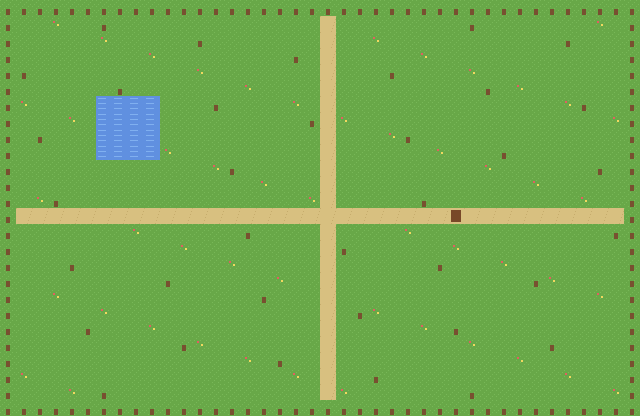
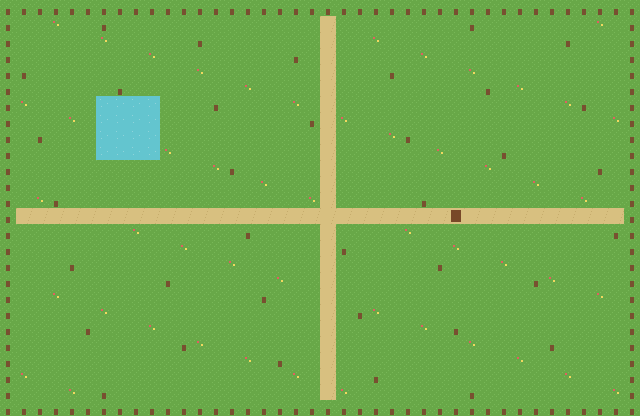
gnhf 6: Started roadmap item 6 (the licensed art swap) by replacing the demo map's procedurally-drawn WATER tile with a real 16x16 tile blitted from Kenney's CC0 Roguelike/RPG Pack spritesheet.

Changed region(s): [[0.125, 0.2188, 0.25, 0.4062]]

diff --git a/tools/gen_assets.cpp b/tools/gen_assets.cpp
@@ -12,6 +12,18 @@
 namespace {
 constexpr int T = grid::TILE; // 16
 
+// Kenney "Roguelike/RPG Pack" (CC0, see ASSET_CREDITS.md). Sheet cells are
+// 16x16 with a 1px margin, so each cell occupies a 17x17 stride.
+constexpr int SHEET_CELL = T + 1;
+constexpr int WATER_SHEET_COL = 0;
+constexpr int WATER_SHEET_ROW = 0;
+
+void blitSheetTile(Image* dst, Image* sheet, int sheetCol, int sheetRow, int ox, int oy) {
+    Rectangle src{float(sheetCol * SHEET_CELL), float(sheetRow * SHEET_CELL), float(T), float(T)};
+    Rectangle dstRect{float(ox), float(oy), float(T), float(T)};
+    ImageDraw(dst, *sheet, src, dstRect, WHITE);
+}
+
 const Color GRASS_A{104, 168, 72, 255};
 const Color GRASS_B{120, 184, 88, 255};
 const Color PATH_A{216, 192, 128, 255};
@@ -36,7 +48,7 @@ void drawGrass(Image* img, int ox, int oy) {
             if (((x + y) / 2) % 3 == 0) ImageDrawPixel(img, ox + x, oy + y, GRASS_B);
 }
 
-void drawTileLower(Image* img, int gx, int gy) {
+void drawTileLower(Image* img, Image* tileSheet, int gx, int gy) {
     const int ox = gx * T, oy = gy * T;
     switch (demomap::tileAt(gx, gy)) {
         case demomap::GRASS:
@@ -53,9 +65,7 @@ void drawTileLower(Image* img, int gx, int gy) {
                 ImageDrawPixel(img, ox + (i * 5) % T, oy + i, PATH_B);
             break;
         case demomap::WATER:
-            ImageDrawRectangle(img, ox, oy, T, T, WATER_A);
-            for (int y = 2; y < T; y += 5)
-                ImageDrawRectangle(img, ox + 2, oy + y, 8, 1, WATER_B);
+            blitSheetTile(img, tileSheet, WATER_SHEET_COL, WATER_SHEET_ROW, ox, oy);
             break;
         case demomap::TREE:
             drawGrass(img, ox, oy);
@@ -143,10 +153,12 @@ int main() {
     std::filesystem::create_directories("assets/maps");
     std::filesystem::create_directories("assets/characters");
 
+    Image tileSheet = LoadImage("assets/tiles/kenney_roguelike_sheet.png");
+
     // --- map lower layer ---
     Image lower = GenImageColor(demomap::W * T, demomap::H * T, GRASS_A);
     for (int gy = 0; gy < demomap::H; ++gy)
-        for (int gx = 0; gx < demomap::W; ++gx) drawTileLower(&lower, gx, gy);
+        for (int gx = 0; gx < demomap::W; ++gx) drawTileLower(&lower, &tileSheet, gx, gy);
     ExportImage(lower, "assets/maps/demo_lower.png");
     UnloadImage(lower);
 
@@ -156,6 +168,7 @@ int main() {
         for (int gx = 0; gx < demomap::W; ++gx) drawTileUpper(&upper, gx, gy);
     ExportImage(upper, "assets/maps/demo_upper.png");
     UnloadImage(upper);
+    UnloadImage(tileSheet);
 
     // --- hub room: plain floor/walls, no upper-layer content ---
     Image hubLower = GenImageColor(hubmap::W * T, hubmap::H * T, FLOOR_A);

diff --git a/ASSET_CREDITS.md b/ASSET_CREDITS.md
@@ -2,30 +2,44 @@
 
 ## Current assets (foundation)
 
-All art currently in `assets/` is **procedurally generated** by
+Most art in `assets/` is still **procedurally generated** by
 `tools/gen_assets.cpp` in this repo. It is original work, released under CC0
 (public domain). It is intentionally simple placeholder art in a Gen-4 palette,
 present so the engine has something to render and verify.
 
-- `assets/maps/demo_lower.png`, `demo_upper.png` - generated demo map
+- `assets/maps/demo_lower.png`, `demo_upper.png` - generated demo map (WATER
+  tile is now real art, see below; everything else still procedural)
 - `assets/maps/hub_lower.png`, `hub_upper.png` - generated portfolio hub room
 - `assets/characters/hero.png` - generated 4-direction walk sheet
 - `assets/characters/npc.png` - generated 4-direction walk sheet, NPC palette
 - `assets/characters/shadow.png` - generated shadow
 
-## Planned: curated free Gen-4-style assets (to swap in)
+## Curated free Gen-4-style assets (in progress)
 
 The goal is a Generation-4 Pokémon *look* using only legally-licensed assets.
-**No ripped Nintendo/Game Freak assets.** Candidate packs (verify each license
-before committing the files):
+**No ripped Nintendo/Game Freak assets.**
+
+### In use
+
+- **Roguelike/RPG Pack** by Kenney Vleugels for Kenney (www.kenney.nl), with
+  help by Lynn Evers. Source: https://kenney.nl/assets/roguelike-rpg-pack.
+  License: **CC0** (public domain).
+  File: `assets/tiles/kenney_roguelike_sheet.png` (the pack's
+  `Spritesheet/roguelikeSheet_transparent.png`, copied in unmodified).
+  Currently used for: the demo map's WATER tile (16x16 cell at sheet column 0,
+  row 0, stamped in by `tools/gen_assets.cpp`'s `blitSheetTile`). Remaining
+  tile types (grass, path, trees) and the character sheets are still
+  procedural placeholders pending future iterations that pick further cells
+  from this same sheet.
+
+### Candidates for future iterations
 
 | Pack | Source | License | Notes |
 | --- | --- | --- | --- |
-| Roguelike/RPG Pack | kenney.nl | **CC0** | Safest; top-down tiles + characters |
-| Tiny Town / Tiny Dungeon | kenney.nl | **CC0** | Clean 16px tiles |
+| Tiny Town / Tiny Dungeon | kenney.nl | **CC0** | Clean 16px tiles, no water/tree tiles found |
 | Tiny 16: Basic (Sharm) | opengameart.org | CC-BY 3.0 | Attribute the author |
 | Liberated Pixel Cup (LPC) | opengameart.org | CC-BY-SA 3.0 / GPL | Character generator; share-alike |
 | Pipoya Free RPG Character Sprites | itch.io | Free w/ credit | 4-direction top-down, Pokémon-like |
 
-When a pack is added: download it, drop files under `assets/`, record the exact
+When more of a pack is wired in: drop files under `assets/`, record the exact
 pack name, author, URL, and license here, and keep any required attribution.